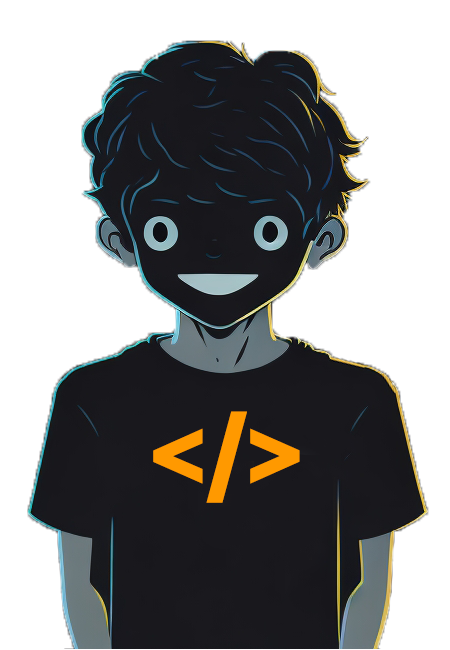
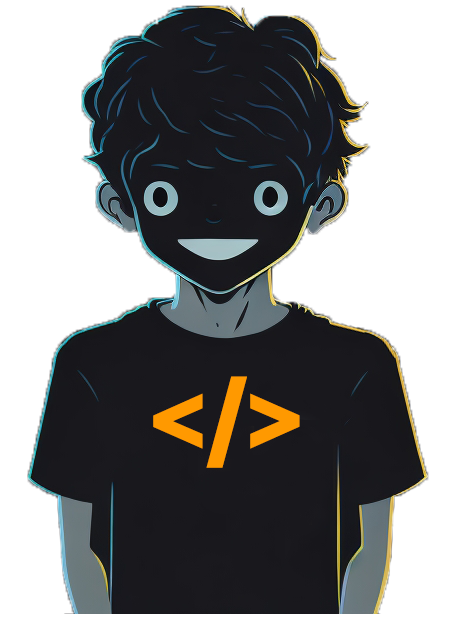
Some improvements
delete class in div and add class in an img to direct select

diff --git a/index.html b/index.html
@@ -31,8 +31,8 @@
             <a href="https://www.facebook.com/dgreytazterXF"><img class="mini-logo" src="https://img.icons8.com/nolan/256/facebook-new.png" alt="facebook-new"/></a>
             <a href="https://github.com/dGreytAzter"><img class="mini-logo" src="https://img.icons8.com/nolan/256/github.png" alt="github"/></a>
         </div>
-        <div class="img-container">
-            <img src="img/guy.png" alt="guy" id="guy" />
+        <div>
+            <img src="img/guy.png" alt="guy" id="guy" class="img-guy"/>
         </div>
     </div>
 

diff --git a/style.css b/style.css
@@ -48,10 +48,12 @@ nav a:hover {
     border-radius: 10px;
     width: 85%;
     padding: 10px;
+    flex-wrap: wrap;
 }
 
-img {
-    height: 40em;
+.img-guy {
+    height: 30em;
+    margin: 100px auto;
 }
 
 .realname {
